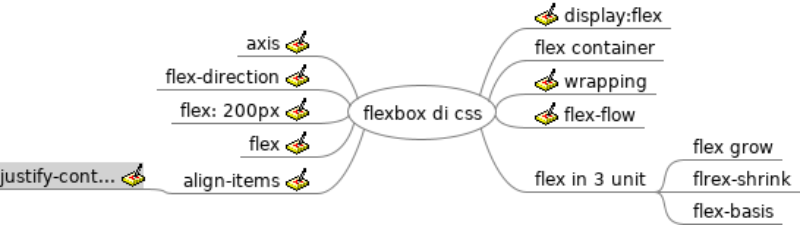
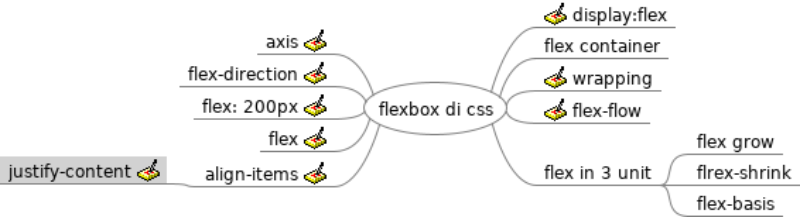
update lecture notes

Changed region(s): [[0.0, 0.0, 1.0, 1.0], [0.8438, 0.6083, 0.9688, 0.7189]]

diff --git a/kubernetes.mm b/kubernetes.mm
@@ -1,0 +1,21 @@
+<map version="1.1.0">
+<!-- To view this file, download free mind mapping software FreeMind from http://freemind.sourceforge.net -->
+<node CREATED="1652781727790" ID="ID_197699388" MODIFIED="1652781735088" TEXT="kubernetes">
+<node CREATED="1652781736193" ID="ID_1145435020" MODIFIED="1652781769205" POSITION="right" TEXT="why">
+<richcontent TYPE="NOTE"><html>
+  <head>
+    
+  </head>
+  <body>
+    <p>
+      container orchestration
+    </p>
+    <p>
+      high avaliability , aka no downtime
+    </p>
+  </body>
+</html>
+</richcontent>
+</node>
+</node>
+</map>

diff --git a/flexbox di css.mm b/flexbox di css.mm
@@ -143,7 +143,7 @@
   </body>
 </html>
 </richcontent>
-<node CREATED="1652690328410" ID="ID_744216709" MODIFIED="1652690423769" TEXT="justify-content">
+<node CREATED="1652690328410" ID="ID_744216709" MODIFIED="1652690543785" TEXT="justify-content">
 <richcontent TYPE="NOTE"><html>
   <head>
     
@@ -151,6 +151,18 @@
   <body>
     <p>
       ini buat main axis
+    </p>
+    <p>
+      defaultnya flex-start
+    </p>
+    <p>
+      bisa:
+    </p>
+    <p>
+      flex-end
+    </p>
+    <p>
+      center
     </p>
   </body>
 </html>

diff --git a/sicp.mm b/sicp.mm
@@ -1,0 +1,18 @@
+<map version="1.1.0">
+<!-- To view this file, download free mind mapping software FreeMind from http://freemind.sourceforge.net -->
+<node CREATED="1652716779587" ID="ID_1287713097" MODIFIED="1652716782816" TEXT="sicp">
+<node CREATED="1652716800936" ID="ID_1565719163" MODIFIED="1652717413108" POSITION="right" TEXT="chapter 1">
+<richcontent TYPE="NOTE"><html>
+  <head>
+    
+  </head>
+  <body>
+    <p>
+      formalize intuition about process
+    </p>
+  </body>
+</html>
+</richcontent>
+</node>
+</node>
+</map>
